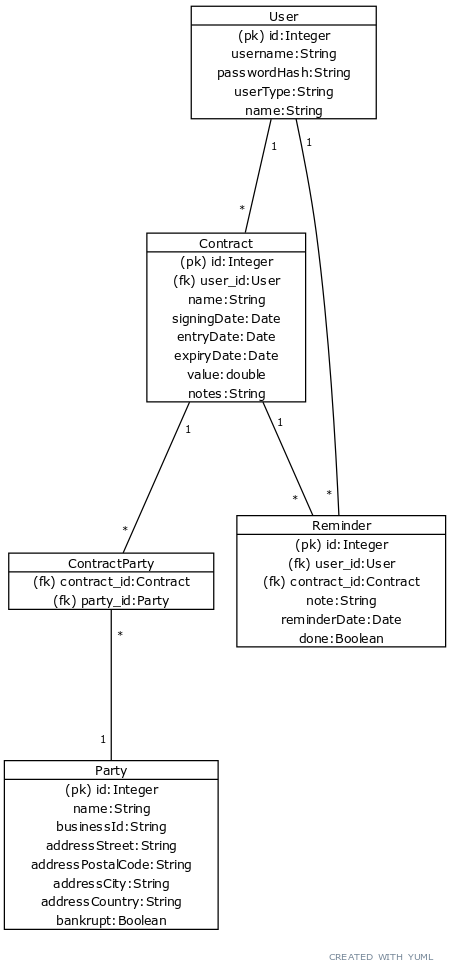
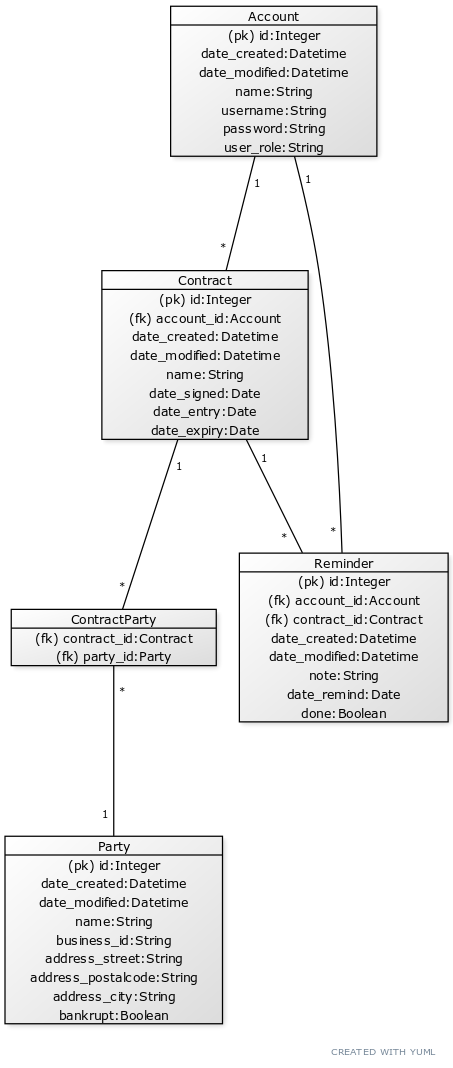
Tietokantakuvaukset ja -kaavio päivitetty

diff --git a/application/contracts/models.py b/application/contracts/models.py
@@ -17,7 +17,6 @@ class Contract(Base):
     date_signed = db.Column(db.Date)
     date_entry = db.Column(db.Date)
     date_expiry = db.Column(db.Date)
-    notes = db.Column(db.String(250))
 
     parties = db.relationship('Party', secondary=contractparties, lazy='subquery',
         backref=db.backref('contracts', lazy='subquery'))

diff --git a/documentation/DatabaseDescription.md b/documentation/DatabaseDescription.md
@@ -29,8 +29,6 @@ CREATE TABLE contract (
 	date_signed DATE, 
 	date_entry DATE, 
 	date_expiry DATE, 
-	value FLOAT, 
-	notes VARCHAR(250), 
 	account_id INTEGER NOT NULL, 
 	PRIMARY KEY (id), 
 	FOREIGN KEY(account_id) REFERENCES account (id)
